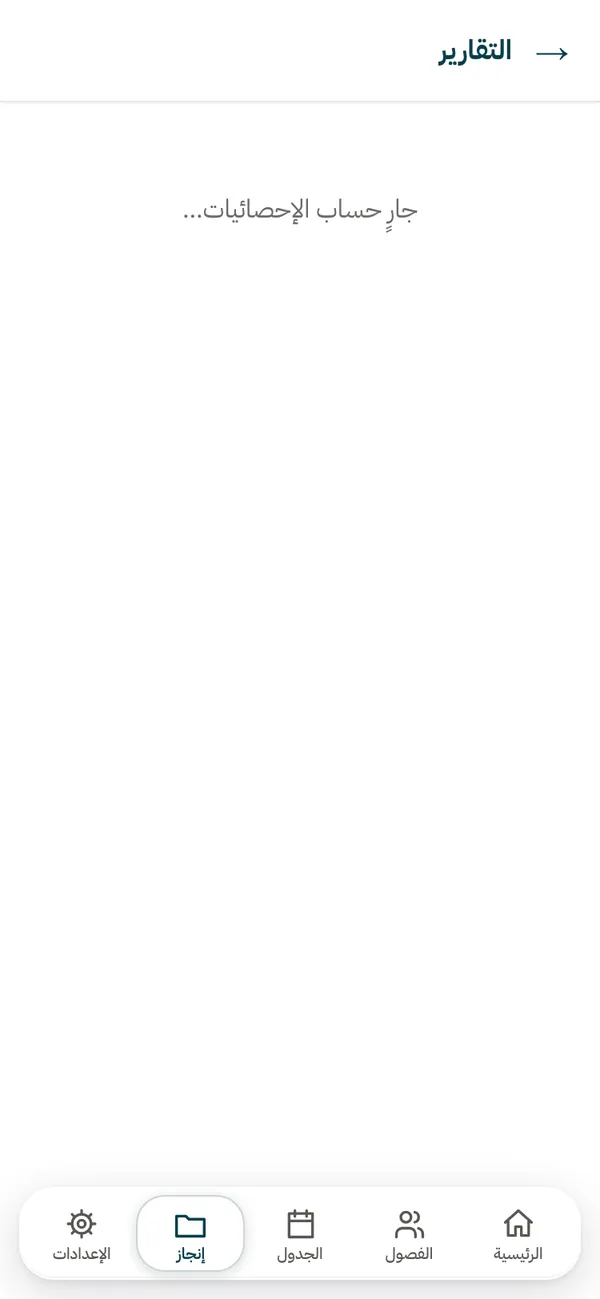
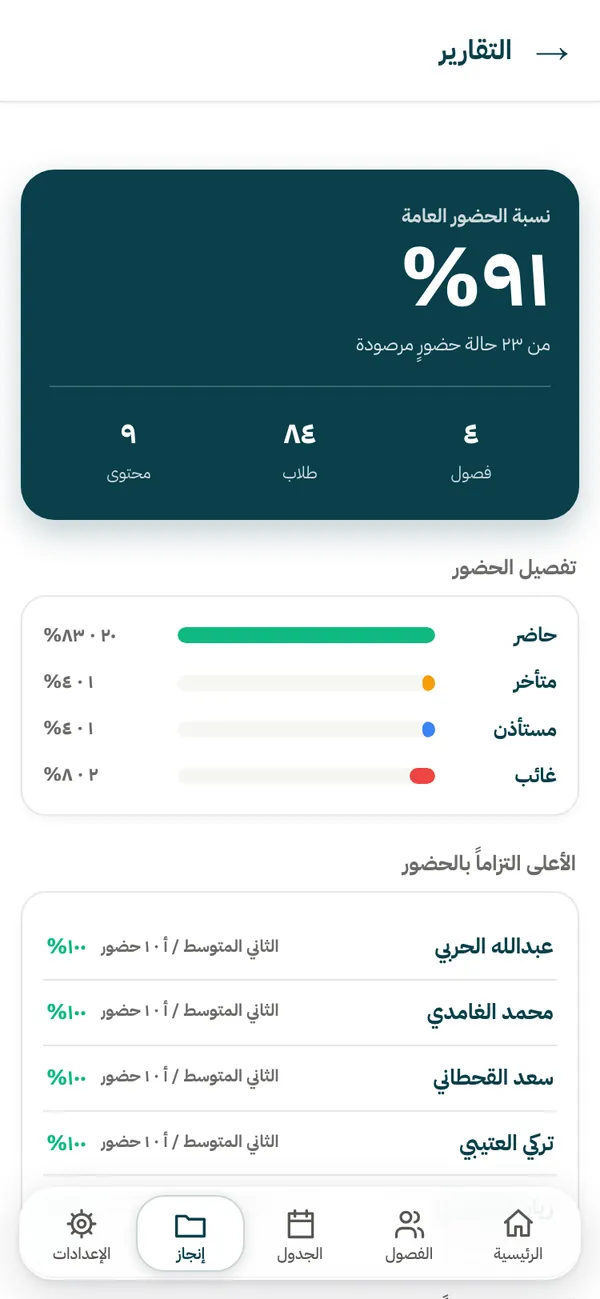
fix(landing): لقطةُ التقارير كانت حالةَ تحميل — وحارسٌ يمنع تكرارها
اللقطةُ المنشورة في الصفحة الأولى كانت «جارٍ حساب الإحصائيات…» لا التقريرَ
المكتمل. وشُحنت كذلك.

## لماذا مرّت

حارسُ الالتقاط ينتظر **استقرارَ** طول النصّ. وشاشةُ التقارير أثناء الحساب
تعرض جملةً قصيرةً لكنّ حولها شريطاً علويّاً وتنقّلاً سفليّاً يتجاوز مجموعُهما
حدَّ الأربعمئة محرف — فبدت الشاشةُ ثابتةً مكتملة، والتُقطت فارغة.

فأُضيف شرطٌ ثانٍ: لا يُلتقط شيءٌ ما دام في الشاشة «جارٍ» أو «جاري».

## وأُضيف مشروعُ الصفحة السينمائيّة

`landing-cinematic/` — مبنيّةٌ على حزمة cinematic-landing-kit (محرّك
Lenis + GSAP، والفيلمُ تسلسلُ إطاراتٍ على canvas لا `video.currentTime`).

و**الفيلمُ مادّةٌ حقيقيّةٌ لا مولَّدة**: ٩٦ إطاراً صُوّرت من التطبيق نفسِه عبر
CDP — جدولٌ فارغٌ يمتلئ حصّةً حصّة — ثمّ رُكّبت في مشهدٍ سينمائيٍّ عريض
(أرضيّةٌ شبه سوداء، هالةٌ بتروليّة، دوليٌّ بطيء) بـPIL، ومنها بُني
`cta.mp4` بـffmpeg. صفرُ خدماتٍ خارجيّة وصفرُ كلفة.

وأُلغي `mix-blend-mode` من الصفحة كلِّها: خلفيّةُ الأصول هي لونُ الصفحة
نفسُه، فتذوب بلا حيلة — وبذلك يُتجنَّب فخُّ الحزمة (memory/05): المزجُ
ينكسر تحت أيّ transform.

diff --git a/landing-cinematic/index.html b/landing-cinematic/index.html
@@ -78,7 +78,7 @@
   .eyebrow{font-family:"Cormorant Garamond",serif;letter-spacing:.46em;text-transform:uppercase;font-size:13px;color:var(--gold-deep);font-weight:500}
   .idx{font-family:"El Messiri",serif;font-size:15px;color:var(--gold);font-weight:600}
   .gold-text{background:linear-gradient(180deg,var(--gold-bright),var(--gold) 50%,var(--gold-deep));-webkit-background-clip:text;background-clip:text;color:transparent}
-  .multiply{mix-blend-mode:screen}   /* ONLY on non-GSAP-transformed product shots (see memory/05) */
+  .multiply{mix-blend-mode:normal}   /* الأصولُ خلفيّتُها لونُ الصفحة — فلا حاجةَ لمزجٍ ينكسر تحت transform */   /* ONLY on non-GSAP-transformed product shots (see memory/05) */
   .fallback-host{position:relative}
   .fallback-host.is-missing{background-image:linear-gradient(135deg,var(--cream),var(--sand) 78%);background-size:cover}
   .reveal{opacity:0;transform:translateY(34px);transition:opacity 1.1s var(--ease),transform 1.1s var(--ease)}
@@ -129,7 +129,7 @@
   #reveal .grid{display:grid;grid-template-columns:1fr;gap:clamp(40px,6vw,84px);align-items:center}
   @media(min-width:900px){#reveal .grid{grid-template-columns:1.05fr .95fr}}
   #reveal .shot{position:relative;aspect-ratio:4/3;display:grid;place-items:center}
-  #reveal .shot img{width:100%;height:100%;object-fit:contain}
+  #reveal .shot img{width:100%;height:100%;object-fit:cover;border-radius:4px}
   #reveal .copy{text-align:right} #reveal .idx{display:block;margin-bottom:12px}
   #reveal h2{font-size:clamp(36px,5.6vw,78px);margin:8px 0 22px}
   #reveal .lead{font-size:clamp(16px,1.8vw,20px);color:var(--ink-soft);max-width:46ch;margin-inline-start:auto}
@@ -151,7 +151,7 @@
   /* 5 · CTA */
   #cta{height:260vh}
   #cta .stage{position:sticky;top:0;height:100svh;overflow:hidden;display:grid;place-items:center;background:var(--paper)}
-  #cta video,#cta .cta-poster{position:absolute;inset:0;width:100%;height:100%;object-fit:contain;mix-blend-mode:multiply}
+  #cta video,#cta .cta-poster{position:absolute;inset:0;width:100%;height:100%;object-fit:cover}
   #cta .cta-poster{transition:opacity .8s ease}
   #cta .dim{position:absolute;inset:0;opacity:0;backdrop-filter:blur(3px);background:radial-gradient(120% 100% at 50% 50%,rgba(9,12,17,.70),rgba(4,6,10,.94))}
   #cta .content{position:relative;z-index:3;text-align:center;opacity:0;transform:translateY(28px);padding-inline:20px}
@@ -172,8 +172,8 @@
   @media(min-width:760px){#editions .cards{grid-template-columns:repeat(3,1fr)}}
   .ed-card{position:relative;border:1px solid var(--line);border-radius:6px;overflow:hidden;background:var(--mist);transition:transform .5s var(--ease),box-shadow .5s,border-color .5s}
   .ed-card:hover{transform:translateY(-8px);box-shadow:0 34px 70px -36px rgba(0,0,0,.75)}
-  .ed-card .pic{aspect-ratio:4/3;display:grid;place-items:center;overflow:hidden;padding:8%}
-  .ed-card .pic img{width:100%;height:100%;object-fit:contain;mix-blend-mode:multiply;transition:transform .9s var(--ease)}
+  .ed-card .pic{aspect-ratio:16/10;display:grid;place-items:center;overflow:hidden}
+  .ed-card .pic img{width:100%;height:100%;object-fit:cover;transition:transform .9s var(--ease)}
   .ed-card:hover .pic img{transform:scale(1.05)}
   .ed-card .body{padding:6px 22px 28px} .ed-card h3{font-size:23px;color:var(--ink)} .ed-card p{font-size:14px;color:var(--ink-soft);margin-top:8px}
 
